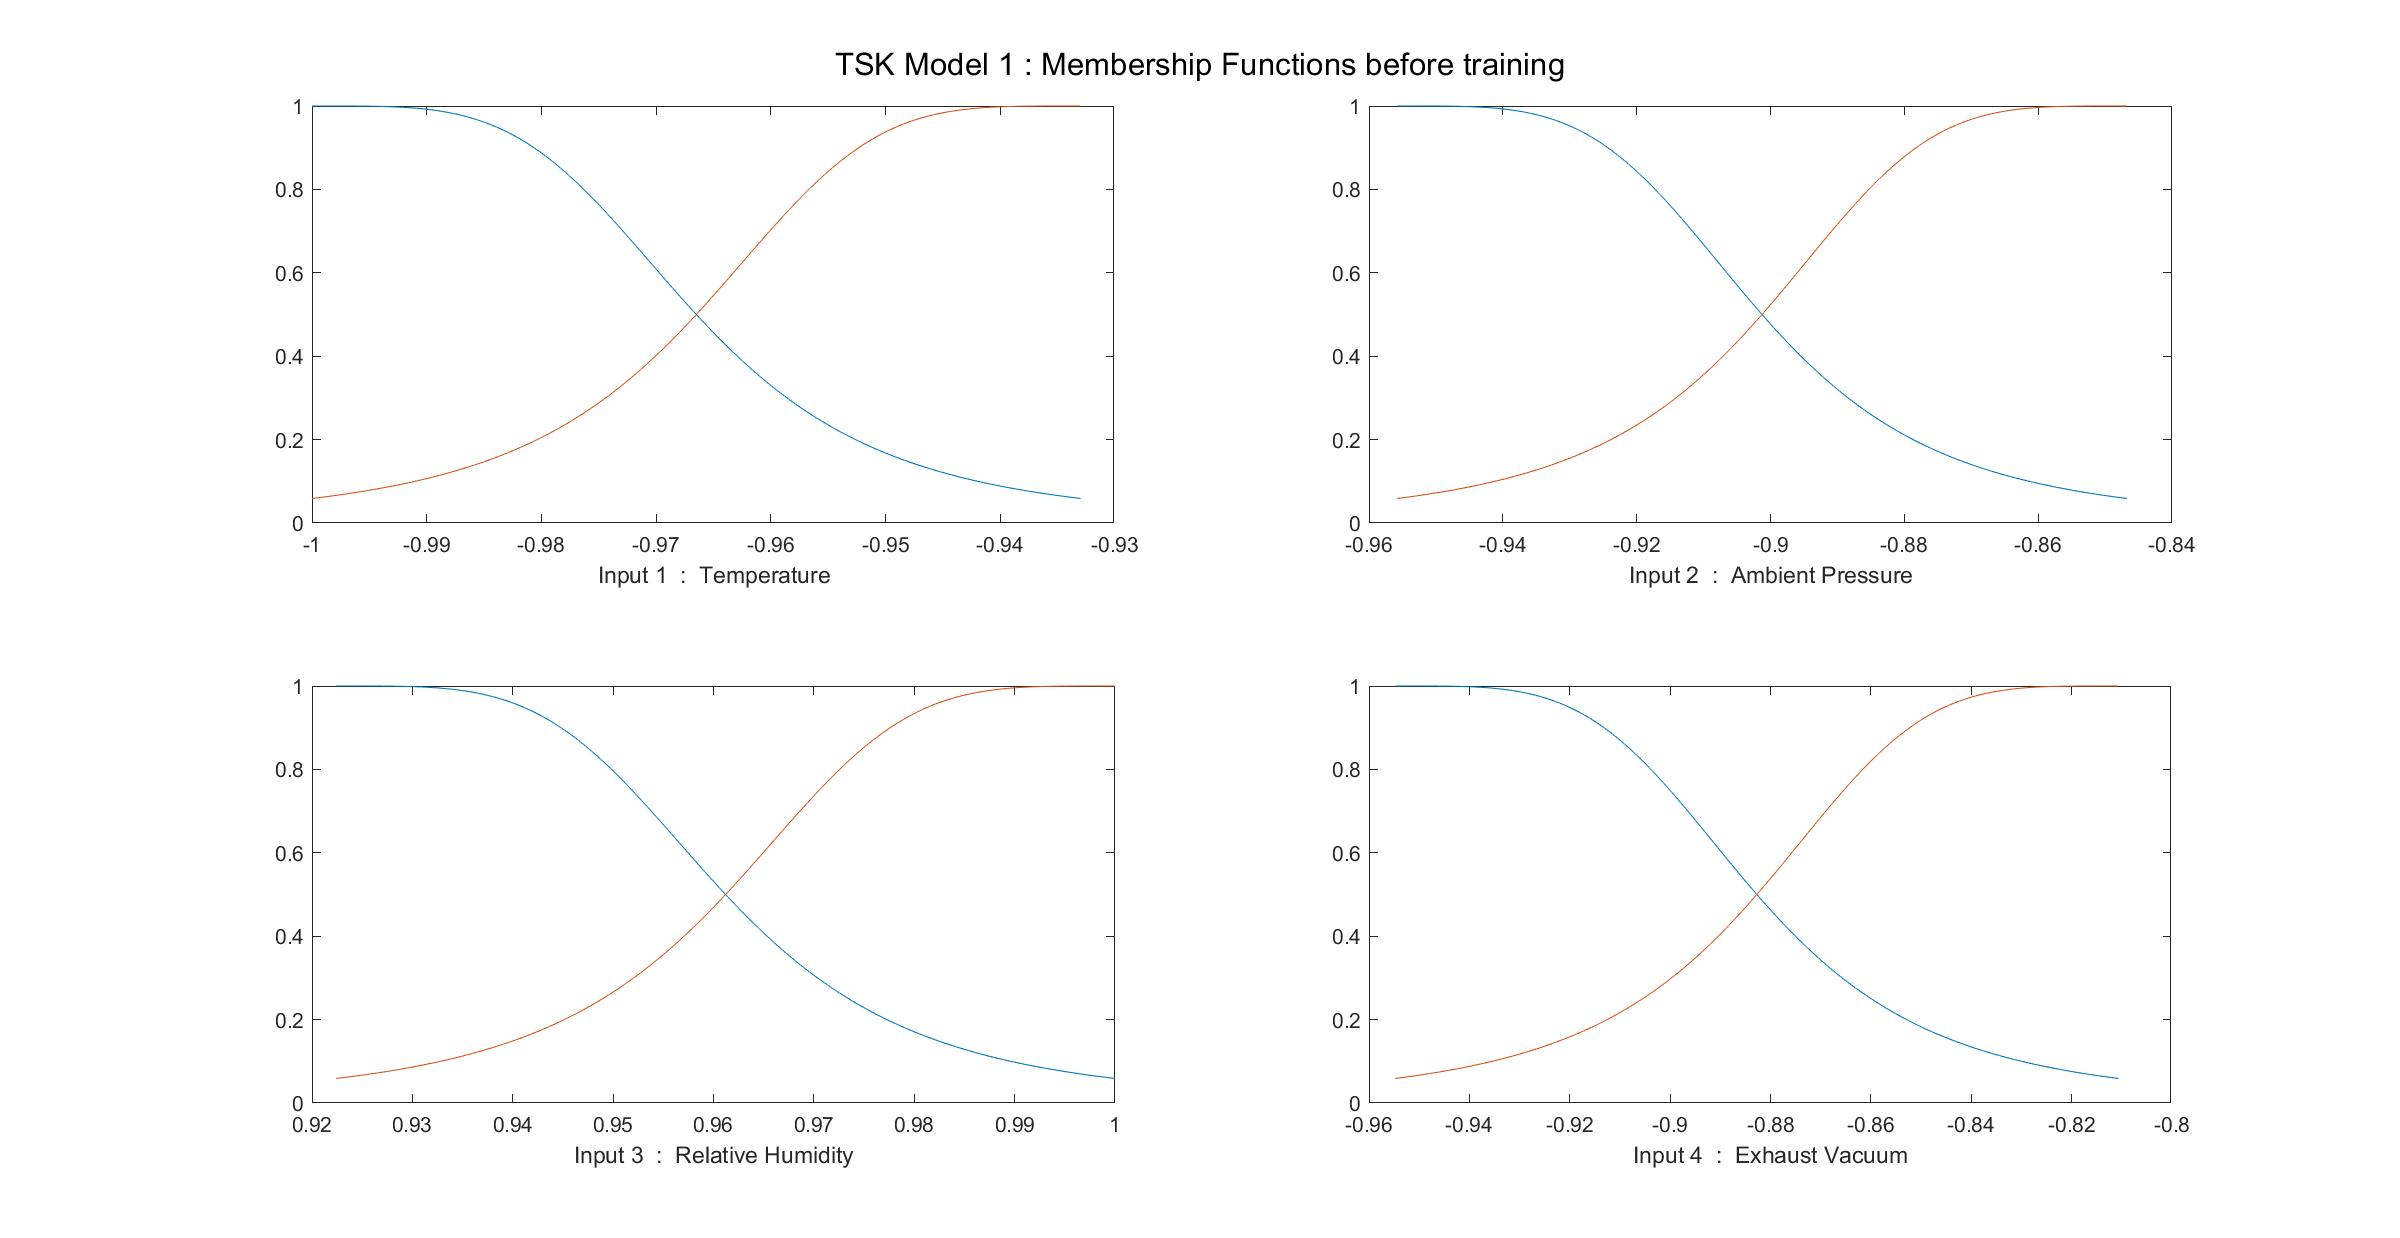
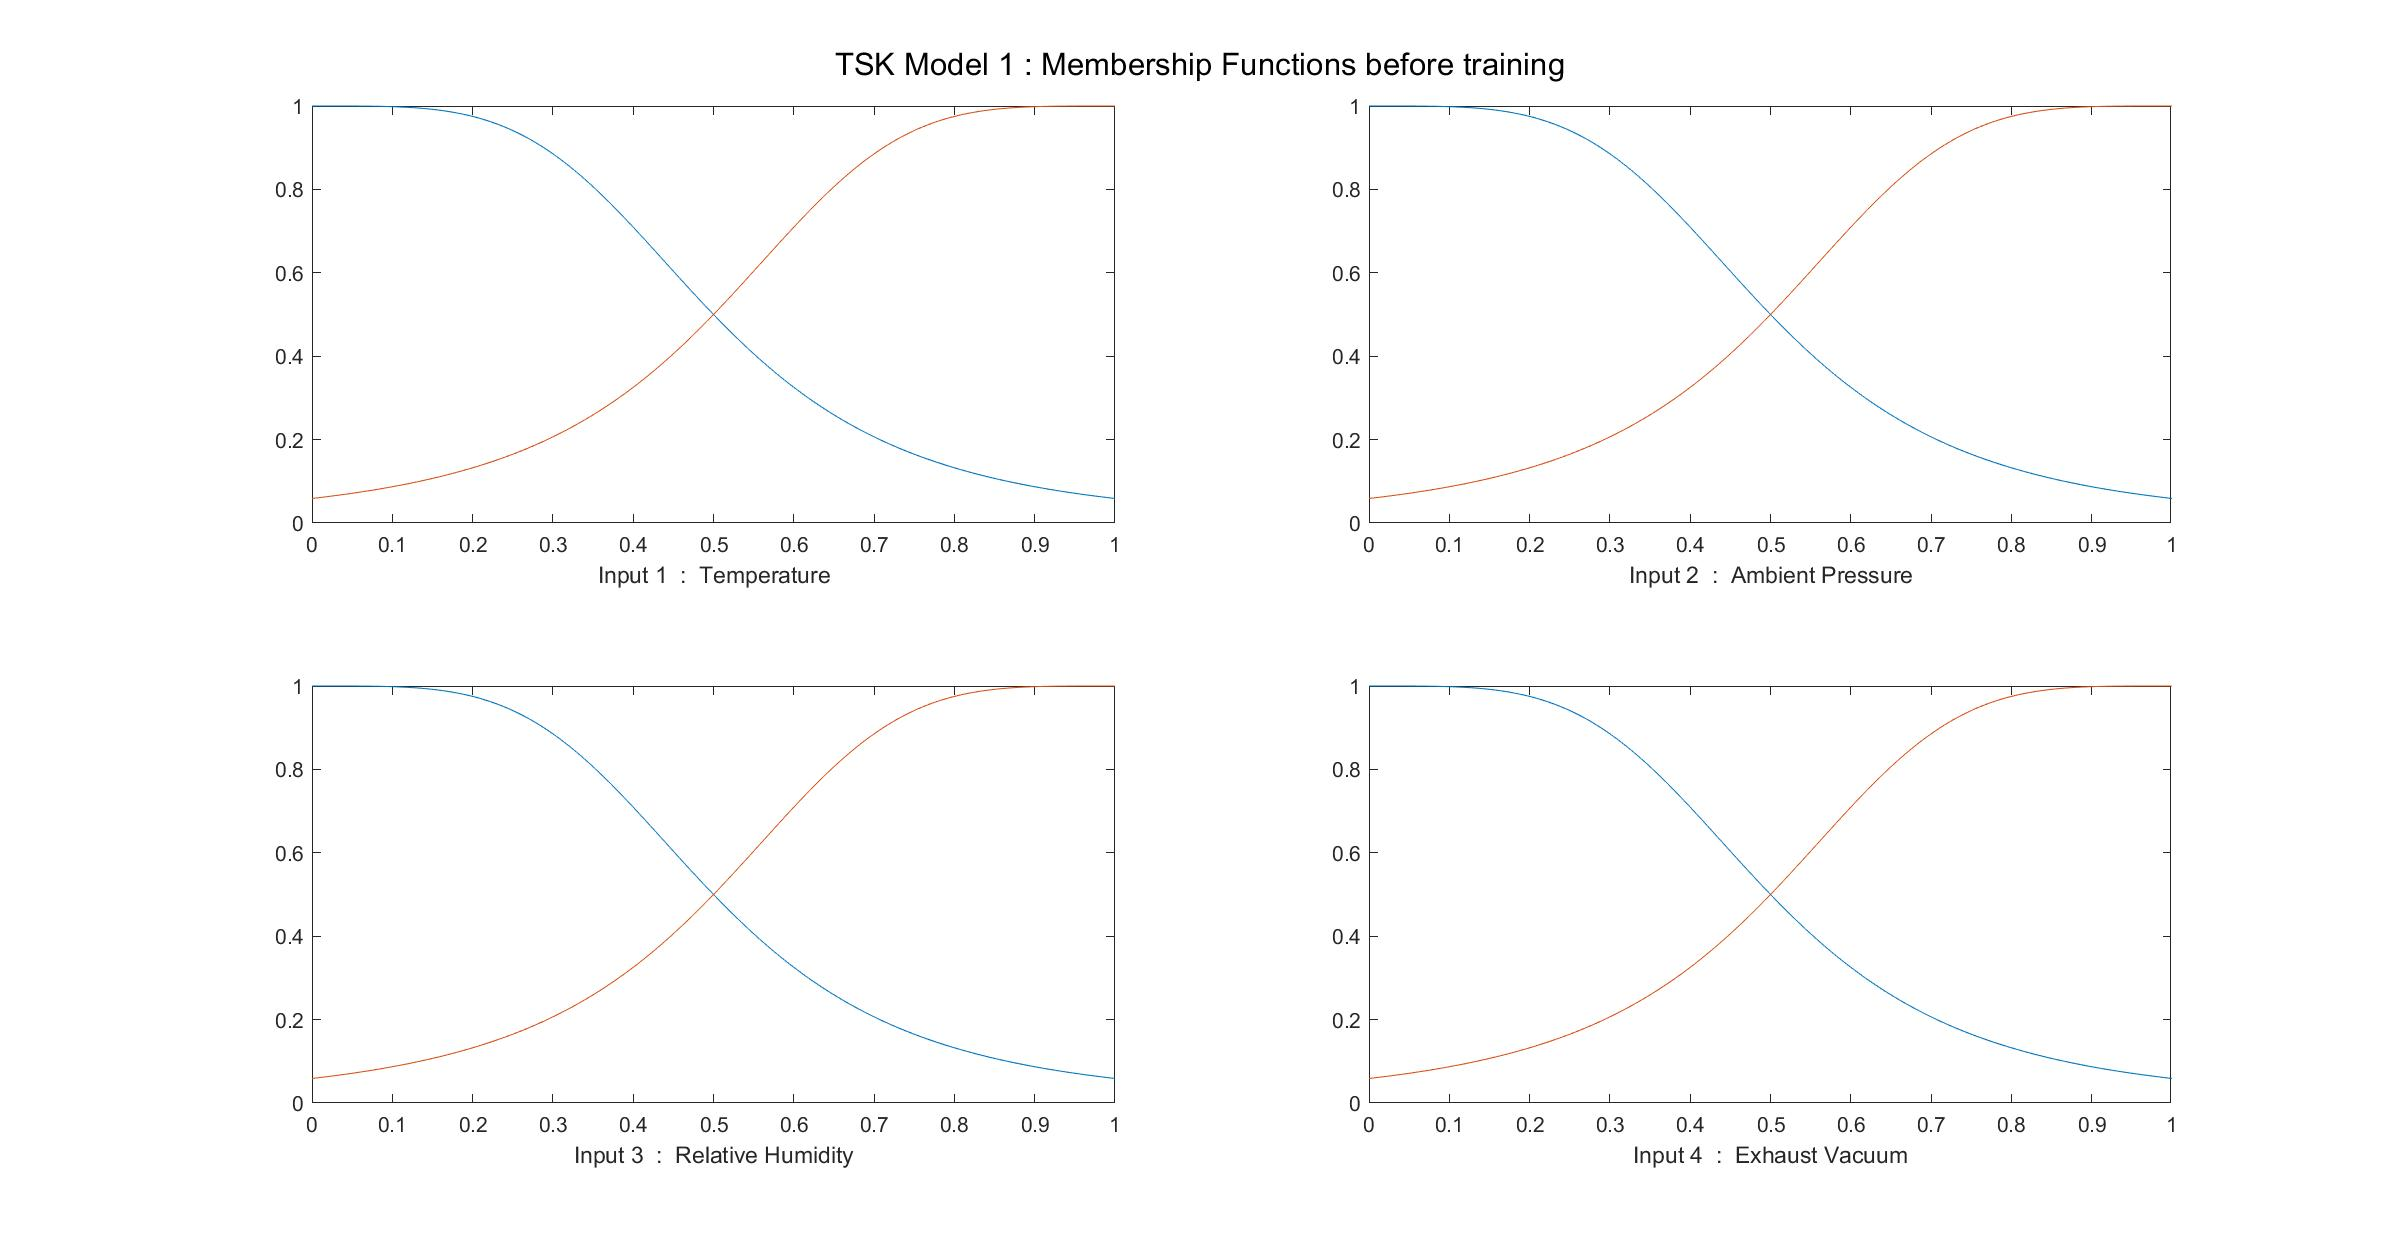
changed normalization method - started project3 report

diff --git a/asafi-ergasia3/ccppTSKModels.m b/asafi-ergasia3/ccppTSKModels.m
@@ -39,29 +39,45 @@ training_set = CCPP(1 : round(0.6*size(CCPP,1)), :); % 60% will be used for trai
 validation_set = CCPP(round(0.6*size(CCPP,1))+1 : round(0.8 * size(CCPP,1)), :); % 20% will be used for validation
 check_set = CCPP(round(0.8*size(CCPP,1))+1 : end, :); % 20% will be used for testing
 
-%% Data Normalization
+% %% Data Normalization
+% 
+% % Find min and max of the training set
+% training_set_min = min(training_set(:));
+% training_set_max = max(training_set(:));
+% 
+% % Normalize training set
+% training_set = (training_set - training_set_min) / (training_set_max - training_set_min); % Scaled to [0 , 1]
+% 
+% % Normalize validation set based on the training set data
+% validation_set = (validation_set - training_set_min) / (training_set_max - training_set_min); % Scaled to [0 , 1]
+% 
+% % Normalize check set based on the training set data
+% check_set = (check_set - training_set_min) / (training_set_max - training_set_min); % Scaled to [0 , 1]
 
-% Find min and max of the training set
-training_set_min = min(training_set(:));
-training_set_max = max(training_set(:));
+%% Data Normalization (Normalize each feautre separately)
 
-% Normalize training set
-training_set = (training_set - training_set_min) / (training_set_max - training_set_min); % Scaled to [0 , 1]
-training_set = training_set * 2 - 1; % Scaled to [-1 , 1]
-
-% Normalize validation set based on the training set data
-validation_set = (validation_set - training_set_min) / (training_set_max - training_set_min); % Scaled to [0 , 1]
-validation_set = validation_set * 2 - 1; % Scaled to [-1 , 1]
-
-% Normalize check set based on the training set data
-check_set = (check_set - training_set_min) / (training_set_max - training_set_min); % Scaled to [0 , 1]
-check_set = check_set * 2 - 1; % Scaled to [-1 , 1]
+for i = 1 : size(training_set, 2) % for every feature
+    
+    % Find min and max of the feature
+    training_set_min = min(training_set(:, i));
+    training_set_max = max(training_set(:, i));
+    
+    % Normalize training set
+    training_set(:, i) = (training_set(:, i) - training_set_min) / (training_set_max - training_set_min); % Scaled to [0 , 1]
+    
+    % Normalize validation set based on the training set data
+    validation_set(:, i) = (validation_set(:, i) - training_set_min) / (training_set_max - training_set_min); % Scaled to [0 , 1]
+   
+    % Normalize check set based on the training set data
+    check_set(:, i) = (check_set(:, i) - training_set_min) / (training_set_max - training_set_min); % Scaled to [0 , 1]
+   
+end
 
 %% FIS Generation
 
 % Set FIS Options
 opt = genfisOptions('GridPartition');
-opt.NumMembershipFunctions = mfNumber(k) * ones(size(CCPP,2),1); % k MF's for each input
+opt.NumMembershipFunctions = mfNumber(k) * ones(size(CCPP,2)-1,1); % k MF's for each input
 opt.InputMembershipFunctionType = ["gbellmf" "gbellmf" "gbellmf" "gbellmf"]; % Bell-shaped
 opt.OutputMembershipFunctionType = outputForm(k); % Constant or Linear
 

diff --git a/asafi-ergasia3/gridSearch.m b/asafi-ergasia3/gridSearch.m
@@ -37,11 +37,11 @@ end
 
 % Number of Features
 %NF = [5 10 15 20];
-NF = [15 5];
+NF = [5 10];
 
 % Number of Rules
 %NR = [4 8 12 16 20];
-NR = [20 4];
+NR = [4 8];
 
 MeanModelError = zeros(length(NF), length(NR));
 counter = 1;
@@ -52,9 +52,24 @@ training_set = shuffledData(1 : round(0.6*size(shuffledData,1)), :); % 60% will 
 validation_set = shuffledData(round(0.6*size(shuffledData,1))+1 : round(0.8 * size(shuffledData,1)), :); % 20% will be used for validation
 check_set = shuffledData(round(0.8*size(shuffledData,1))+1 : end, :); % 20% will be used for testing
 
+% %% Data Normalization
+% 
+% % Find min and max of the training set
+% training_set_min = min(training_set(:));
+% training_set_max = max(training_set(:));
+% 
+% % Normalize training set
+% training_set = (training_set - training_set_min) / (training_set_max - training_set_min); % Scaled to [0 , 1]
+% 
+% % Normalize validation set based on the training set data
+% validation_set = (validation_set - training_set_min) / (training_set_max - training_set_min); % Scaled to [0 , 1]
+% 
+% % Normalize check set based on the training set data
+% check_set = (check_set - training_set_min) / (training_set_max - training_set_min); % Scaled to [0 , 1]
+
 %% Data Normalization (Normalize each feautre separately)
 
-for i = 1 : size(training_set, 2) - 1 % for every feature
+for i = 1 : size(training_set, 2) % for every feature
     
     % Find min and max of the feature
     training_set_min = min(training_set(:, i));
@@ -62,16 +77,13 @@ for i = 1 : size(training_set, 2) - 1 % for every feature
     
     % Normalize training set
     training_set(:, i) = (training_set(:, i) - training_set_min) / (training_set_max - training_set_min); % Scaled to [0 , 1]
-    training_set(:, i) = training_set(:, i) * 2 - 1; % Scaled to [-1 , 1]
     
     % Normalize validation set based on the training set data
     validation_set(:, i) = (validation_set(:, i) - training_set_min) / (training_set_max - training_set_min); % Scaled to [0 , 1]
-    validation_set(:, i) = validation_set(:, i) * 2 - 1; % Scaled to [-1 , 1]
     
     % Normalize check set based on the training set data
     check_set(:, i) = (check_set(:, i) - training_set_min) / (training_set_max - training_set_min); % Scaled to [0 , 1]
-    check_set(:, i) = check_set(:, i) * 2 - 1; % Scaled to [-1 , 1]
-
+    
 end
 
 %% ReliefF Algorithm
@@ -82,8 +94,8 @@ k = 100;
 
 fprintf('Initiating ReleifF Algorithm.. \n\n');
 
-[ranks, ~] = relieff(shuffledData(:, 1:end - 1), shuffledData(:, end), k);
-%load('ranksMat.mat')
+% [ranks, ~] = relieff(shuffledData(:, 1:end - 1), shuffledData(:, end), k);
+load('ranksMat.mat')
 
 %% Grid Search Algorithm
 

diff --git a/asafi-ergasia4/avilaModel.m b/asafi-ergasia4/avilaModel.m
@@ -66,9 +66,24 @@ training_set = shuffleSet(training_set);
 validation_set = shuffleSet(validation_set);
 check_set = shuffleSet(check_set);
 
+% %% Data Normalization
+% 
+% % Find min and max of the training set
+% training_set_min = min(training_set(:));
+% training_set_max = max(training_set(:));
+% 
+% % Normalize training set
+% training_set = (training_set - training_set_min) / (training_set_max - training_set_min); % Scaled to [0 , 1]
+% 
+% % Normalize validation set based on the training set data
+% validation_set = (validation_set - training_set_min) / (training_set_max - training_set_min); % Scaled to [0 , 1]
+% 
+% % Normalize check set based on the training set data
+% check_set = (check_set - training_set_min) / (training_set_max - training_set_min); % Scaled to [0 , 1]
+
 %% Data Normalization (Normalize each feautre separately)
 
-for i = 1 : size(training_set, 2) - 1 % for every feature
+for i = 1 : size(training_set, 2) % for every feature
     
     % Find min and max of the feature
     training_set_min = min(training_set(:, i));
@@ -76,16 +91,13 @@ for i = 1 : size(training_set, 2) - 1 % for every feature
     
     % Normalize training set
     training_set(:, i) = (training_set(:, i) - training_set_min) / (training_set_max - training_set_min); % Scaled to [0 , 1]
-    training_set(:, i) = training_set(:, i) * 2 - 1; % Scaled to [-1 , 1]
     
     % Normalize validation set based on the training set data
     validation_set(:, i) = (validation_set(:, i) - training_set_min) / (training_set_max - training_set_min); % Scaled to [0 , 1]
-    validation_set(:, i) = validation_set(:, i) * 2 - 1; % Scaled to [-1 , 1]
     
     % Normalize check set based on the training set data
     check_set(:, i) = (check_set(:, i) - training_set_min) / (training_set_max - training_set_min); % Scaled to [0 , 1]
-    check_set(:, i) = check_set(:, i) * 2 - 1; % Scaled to [-1 , 1]
-
+    
 end
 
 %% Train 5 TSK Models

diff --git a/asafi-ergasia4/gridSearch.m b/asafi-ergasia4/gridSearch.m
@@ -75,9 +75,24 @@ training_set = shuffleSet(training_set);
 validation_set = shuffleSet(validation_set);
 check_set = shuffleSet(check_set);
 
+% %% Data Normalization
+% 
+% % Find min and max of the training set
+% training_set_min = min(training_set(:));
+% training_set_max = max(training_set(:));
+% 
+% % Normalize training set
+% training_set = (training_set - training_set_min) / (training_set_max - training_set_min); % Scaled to [0 , 1]
+% 
+% % Normalize validation set based on the training set data
+% validation_set = (validation_set - training_set_min) / (training_set_max - training_set_min); % Scaled to [0 , 1]
+% 
+% % Normalize check set based on the training set data
+% check_set = (check_set - training_set_min) / (training_set_max - training_set_min); % Scaled to [0 , 1]
+
 %% Data Normalization (Normalize each feautre separately)
 
-for i = 1 : size(training_set, 2) - 1 % for every feature
+for i = 1 : size(training_set, 2) % for every feature
     
     % Find min and max of the feature
     training_set_min = min(training_set(:, i));
@@ -85,16 +100,13 @@ for i = 1 : size(training_set, 2) - 1 % for every feature
     
     % Normalize training set
     training_set(:, i) = (training_set(:, i) - training_set_min) / (training_set_max - training_set_min); % Scaled to [0 , 1]
-    training_set(:, i) = training_set(:, i) * 2 - 1; % Scaled to [-1 , 1]
     
     % Normalize validation set based on the training set data
     validation_set(:, i) = (validation_set(:, i) - training_set_min) / (training_set_max - training_set_min); % Scaled to [0 , 1]
-    validation_set(:, i) = validation_set(:, i) * 2 - 1; % Scaled to [-1 , 1]
     
     % Normalize check set based on the training set data
     check_set(:, i) = (check_set(:, i) - training_set_min) / (training_set_max - training_set_min); % Scaled to [0 , 1]
-    check_set(:, i) = check_set(:, i) * 2 - 1; % Scaled to [-1 , 1]
-
+    
 end
 
 %% ReliefF Algorithm
